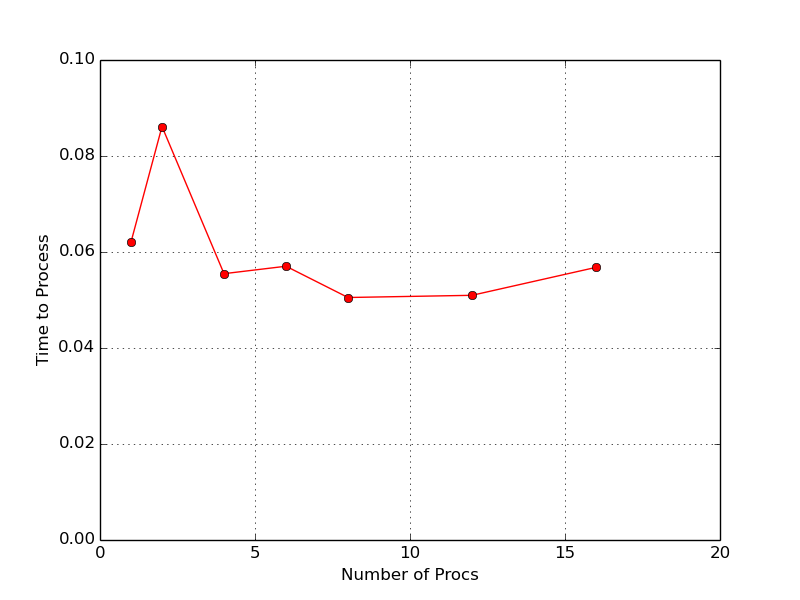
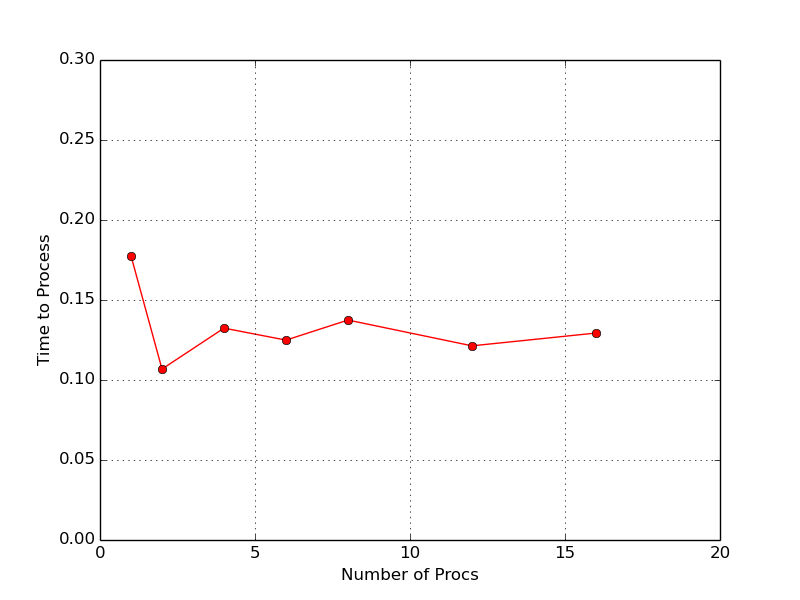
changed to compare the 6300 file

diff --git a/ipc_shared_memory/test/runner.cpp b/ipc_shared_memory/test/runner.cpp
@@ -33,7 +33,7 @@ int main(int argc, char** argv){
 
     chrono::duration<double> read_time_elapse;
 
-    string filename("../../../2100_HPC.csv");
+    string filename("../../../6300_HPC.csv");
     //have to remeber to free it from the heap
     // cout<<"Please enter the file path relative to this execting program, for example '../test/HPC_DATA.csv': ";
     // cin>>filename;
@@ -86,9 +86,9 @@ int main(int argc, char** argv){
             for(int i = 0; i < procs.size(); i++){
                 chrono::duration<double> proc_time_elapse;
                 cout<<procs.at(i)<<" procs"<<endl;
-                //v.computVectorMatch("agricultural/agricultural00_rot_090.tif",100,procs.at(i),&proc_time_elapse);
+                v.computVectorMatch("agricultural/agricultural00_rot_090.tif",100,procs.at(i),&proc_time_elapse);
                 //v.computVectorMatch("agricultural/agricultural00_rot_000.tif",100,procs.at(i),&proc_time_elapse);
-                v.computVectorMatch("agricultural/agricultural00.tif",100,procs.at(i),&proc_time_elapse);
+                //v.computVectorMatch("agricultural/agricultural00.tif",100,procs.at(i),&proc_time_elapse);
                 times.push_back(proc_time_elapse.count());
                 cout<<endl<<endl;
             }

diff --git a/ipc_shared_memory/plotter.py b/ipc_shared_memory/plotter.py
@@ -12,7 +12,7 @@ dataMultiFIle = np.genfromtxt('multiFile.csv',delimiter=',')
 
 plt.plot(data[0], data[1], 'ro-')
 
-plt.axis([0, 20, 0, .1])
+plt.axis([0, 20, 0, .3])
 
 plt.xlabel('Number of Procs')
 plt.ylabel('Time to Process')
